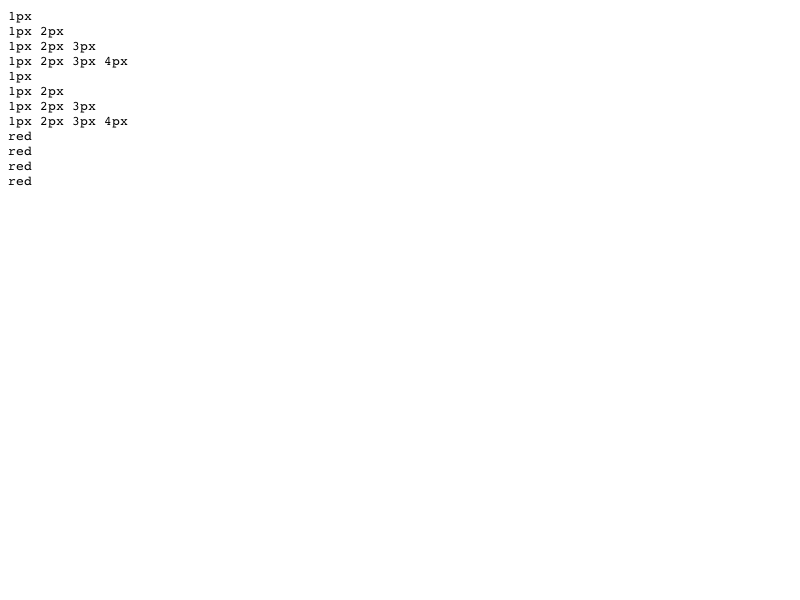
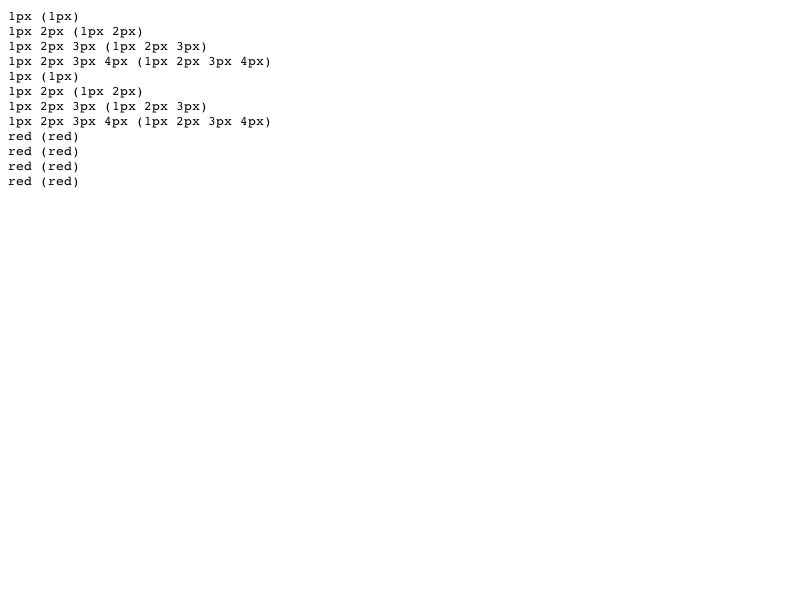
2006-01-19  Anders Carlsson  <andersca@mac.com>
Reviewed by Darin.

        - fix http://bugzilla.opendarwin.org/show_bug.cgi?id=6653
        CSSStyleDeclaration returns empty string when trying to access shorthand 
        properties using JS accessors.
        
        * khtml/ecma/kjs_css.cpp:
        (KJS::DOMCSSStyleDeclaration::cssPropertyGetter):
        if getCSSPropertyValue returns 0 (which is true for shorthand properties), 
        try getPropertyValue instead.

git-svn-id: http://svn.webkit.org/repository/webkit/trunk/LayoutTests@12237 268f45cc-cd09-0410-ab3c-d52691b4dbfc

diff --git a/fast/dom/css-shortHands.html b/fast/dom/css-shortHands.html
@@ -31,7 +31,7 @@ for (var i = 0; i < styleSheet.cssRules.length; i++) {
 	else if (i == 9) prop = "border-bottom";
 	else if (i == 10) prop = "border-left";
 	else if (i == 11) prop = "border-right";
-	s += rule.style.getPropertyValue(prop) + "\n";
+	s += rule.style.getPropertyValue(prop) + " (" + rule.style[prop] + ")\n";
 }
 document.getElementById("result").innerText = s;
 </script>
